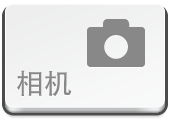
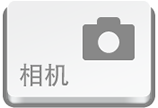
add photo button change

diff --git a/EventApp/FEAddEventIconView.m b/EventApp/FEAddEventIconView.m
@@ -63,16 +63,16 @@
     [self addSubview:self.previewImageView];
     
     //photoPicker Button
-    UIButton *pickFromCamera = [[[UIButton alloc] initWithFrame:CGRectMake(195, 18, 88, 60)] autorelease];
-    [pickFromCamera setImage:[UIImage imageNamed:@"button_photo_camera2"] forState:UIControlStateNormal];
-    [pickFromCamera setImage:[UIImage imageNamed:@"button_photo_camera2_pressed"] forState:UIControlStateHighlighted];
+    UIButton *pickFromCamera = [[[UIButton alloc] initWithFrame:CGRectMake(200, 18, 79, 54)] autorelease];
+    [pickFromCamera setImage:[UIImage imageNamed:@"button_photo_camera"] forState:UIControlStateNormal];
+    [pickFromCamera setImage:[UIImage imageNamed:@"button_photo_camera_pressed"] forState:UIControlStateHighlighted];
     pickFromCamera.tag = 1;
     [self addSubview:pickFromCamera];
     [pickFromCamera addTarget:self action:@selector(selectImage:) forControlEvents:UIControlEventTouchUpInside];
     
-    UIButton *pickFromLibrary = [[[UIButton alloc] initWithFrame:CGRectMake(195, 80, 88, 60)] autorelease];
-    [pickFromLibrary setImage:[UIImage imageNamed:@"button_photo_library2"] forState:UIControlStateNormal];
-    [pickFromLibrary setImage:[UIImage imageNamed:@"button_photo_library2_pressed"] forState:UIControlStateHighlighted];
+    UIButton *pickFromLibrary = [[[UIButton alloc] initWithFrame:CGRectMake(200, 86, 79, 54)] autorelease];
+    [pickFromLibrary setImage:[UIImage imageNamed:@"button_photo_library"] forState:UIControlStateNormal];
+    [pickFromLibrary setImage:[UIImage imageNamed:@"button_photo_library_pressed"] forState:UIControlStateHighlighted];
     pickFromLibrary.tag = 2;
     [self addSubview:pickFromLibrary];
     [pickFromLibrary addTarget:self action:@selector(selectImage:) forControlEvents:UIControlEventTouchUpInside];

diff --git a/EventApp/FEEventDetailViewController.m b/EventApp/FEEventDetailViewController.m
@@ -34,14 +34,13 @@
 						lineBreakMode:UILineBreakModeWordWrap];
 	
 	UITextView *textView = [[UITextView alloc] initWithFrame:CGRectMake(50, 50, 260, size.height + 10)];
+	textView.backgroundColor = [UIColor clearColor];
 	textView.text = foo;
 	
 	UIImage *gridBackgroundImage = [[UIImage imageNamed:@"detail_grid"] resizableImageWithCapInsets:UIEdgeInsetsMake(62, 0, 62, 0)];
-	UIImageView *gridBackground = [[UIImageView alloc] initWithFrame:CGRectMake(0, 0, 320, size.height+100)];
+	UIImageView *gridBackground = [[UIImageView alloc] initWithFrame:CGRectMake(0, 0, 320, size.height+60)];
 	[gridBackground setImage:gridBackgroundImage];
 	[self.view addSubview:gridBackground];
-	
-	
 	[gridBackground addSubview:textView];
 }
 
